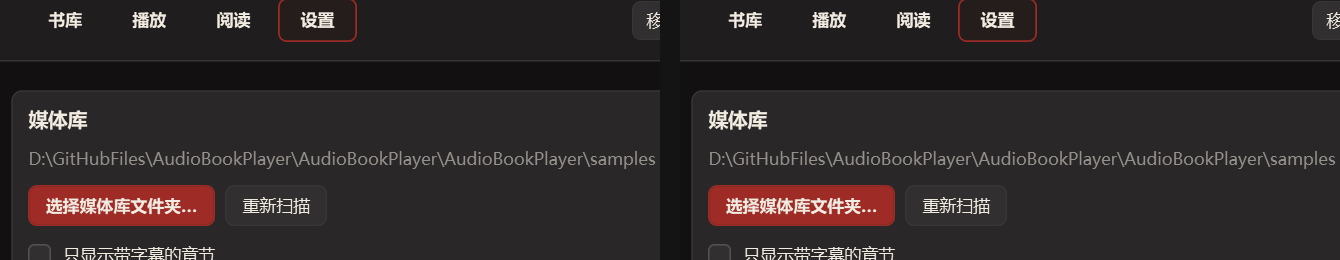
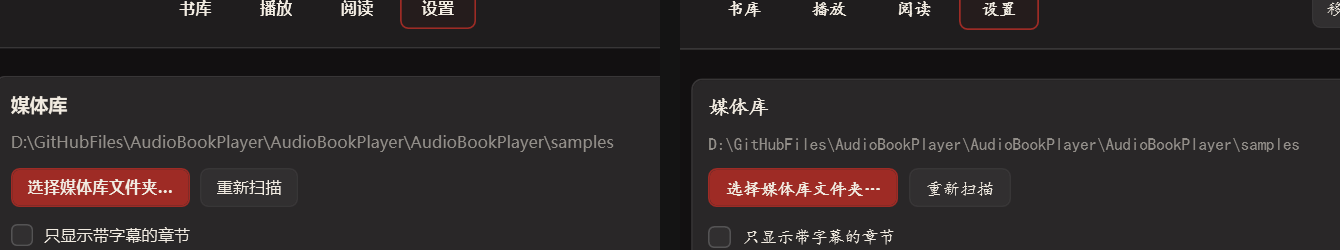
修复界面字体改了没反应
根因：MainWindow.xaml 的 Window 标签上写死了一句
    FontFamily="Microsoft YaHei UI, Segoe UI"
本地属性值优先级高于样式 Setter，所以不管怎么换字体资源都影响不到窗口，
字体永远停在微软雅黑。

改法：
- 删掉那句写死的 FontFamily
- 改成 FontFamily="{DynamicResource AppFontFamily}" 直接写在窗口元素上
  （样式 Setter 里的 DynamicResource 不会回头刷新已生效的属性，写在元素上才会实时更新）
- ApplyUiFont 里额外把字体设到已打开的窗口和内容根元素上，双保险

验证：截图工具加 --ui-font 参数，实测运行中改成楷体，界面字形立刻改变

diff --git a/AudioBookPlayer/Themes/Dark.xaml b/AudioBookPlayer/Themes/Dark.xaml
@@ -714,8 +714,10 @@
          所以换字体只需要替换这一个资源（DynamicResource 会实时生效）。 -->
     <FontFamily x:Key="AppFontFamily">Yu Gothic UI, Microsoft YaHei UI, Microsoft JhengHei UI, Segoe UI</FontFamily>
 
+    <!-- 注意：这里**不要**放 FontFamily。
+         样式 Setter 里的 DynamicResource 不会去刷新已经生效的属性 —— 运行中换字体会没反应。
+         字体是写在各窗口元素上的（见 MainWindow.xaml 的 FontFamily="{DynamicResource AppFontFamily}"）。 -->
     <Style TargetType="Window">
-        <Setter Property="FontFamily" Value="{DynamicResource AppFontFamily}" />
         <Setter Property="TextOptions.TextFormattingMode" Value="Ideal" />
         <Setter Property="TextOptions.TextRenderingMode" Value="ClearType" />
     </Style>

diff --git a/AudioBookPlayer/Views/MainWindow.xaml b/AudioBookPlayer/Views/MainWindow.xaml
@@ -4,12 +4,12 @@
         xmlns:controls="clr-namespace:AudioBookPlayer.Controls"
         xmlns:vm="clr-namespace:AudioBookPlayer.ViewModels"
         Title="KATARU"
+        FontFamily="{DynamicResource AppFontFamily}"
         Width="1240" Height="840"
         MinWidth="1000" MinHeight="660"
         WindowStartupLocation="CenterScreen"
         Background="{DynamicResource WindowBackgroundBrush}"
         Foreground="{DynamicResource TextPrimaryBrush}"
-        FontFamily="Microsoft YaHei UI, Segoe UI"
         FontSize="13"
         UseLayoutRounding="True"
         TextOptions.TextFormattingMode="Ideal">

diff --git a/AudioBookPlayer/ViewModels/MainViewModel.cs b/AudioBookPlayer/ViewModels/MainViewModel.cs
@@ -779,9 +779,28 @@ namespace AudioBookPlayer.ViewModels
                     ? SubtitleOverlayViewModel.ResolveFont(DefaultUiFontName)
                     : SubtitleOverlayViewModel.ResolveFont(_uiFontName);
 
-                if (System.Windows.Application.Current != null)
+                var app = System.Windows.Application.Current;
+                if (app == null)
                 {
-                    System.Windows.Application.Current.Resources["AppFontFamily"] = family;
+                    return;
+                }
+
+                // ① 换资源：以后新建的窗口会用它
+                app.Resources["AppFontFamily"] = family;
+
+                // ② 直接设到"已经打开的窗口"上。
+                //    样式 Setter 里的 DynamicResource 不保证会回头刷新已经生效的属性，
+                //    所以改完当场没反应 —— 这一步才保证立刻生效。
+                foreach (System.Windows.Window window in app.Windows)
+                {
+                    window.FontFamily = family;
+
+                    // 光设窗口还不够：内容根元素自己也要设一次。
+                    // TextElement.FontFamily 是继承属性，设在根上，整棵树里没有显式指定字体的控件都会跟着变。
+                    if (window.Content is DependencyObject root)
+                    {
+                        System.Windows.Documents.TextElement.SetFontFamily(root, family);
+                    }
                 }
             }
             catch (Exception)

diff --git a/AudioBookPlayer/Diagnostics/UiSnapshot.cs b/AudioBookPlayer/Diagnostics/UiSnapshot.cs
@@ -123,6 +123,13 @@ namespace AudioBookPlayer.Diagnostics
                         viewModel.CurrentMode = AppMode.Settings;
                     }
 
+                    // --ui-font SimSun：窗口已经建好之后再换界面字体（复现"运行时改字体没反应"）
+                    var uiFont = GetOption(args, "--ui-font");
+                    if (!string.IsNullOrEmpty(uiFont))
+                    {
+                        viewModel.UiFontName = uiFont;
+                        Console.WriteLine($"[diag] ui-font requested = {uiFont}, windows = {System.Windows.Application.Current?.Windows.Count}");
+                    }
                     // --zoom 1.5：把当前视图放大到 150%（用来验证 Ctrl+滚轮缩放）
                     var zoom = GetOption(args, "--zoom");
                     if (!string.IsNullOrEmpty(zoom) && double.TryParse(zoom, out var zoomValue))
